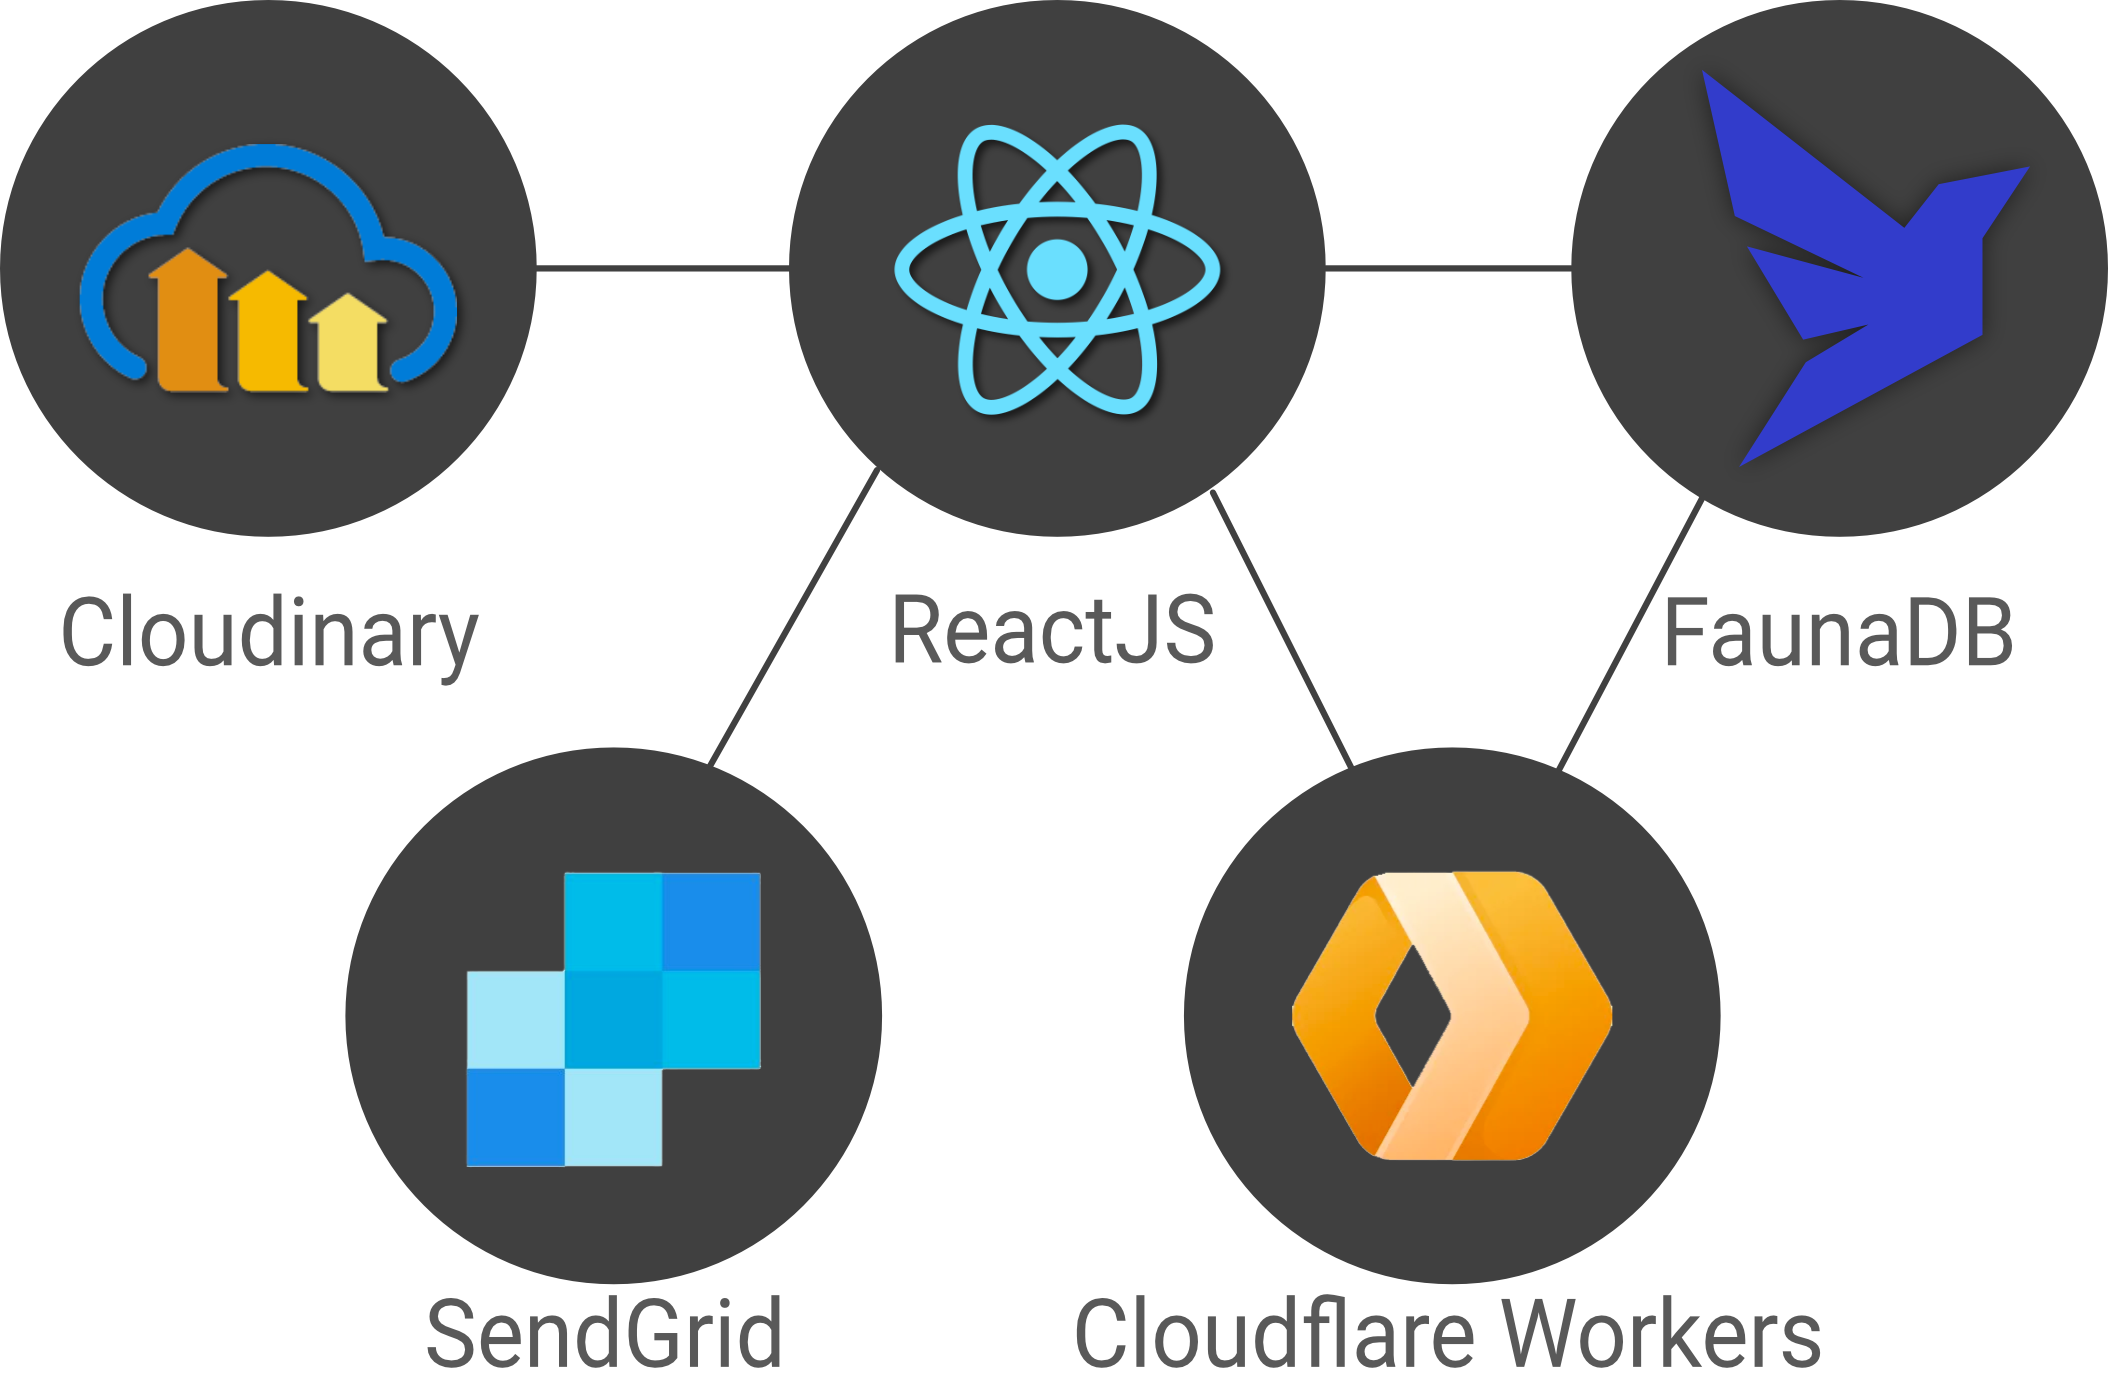
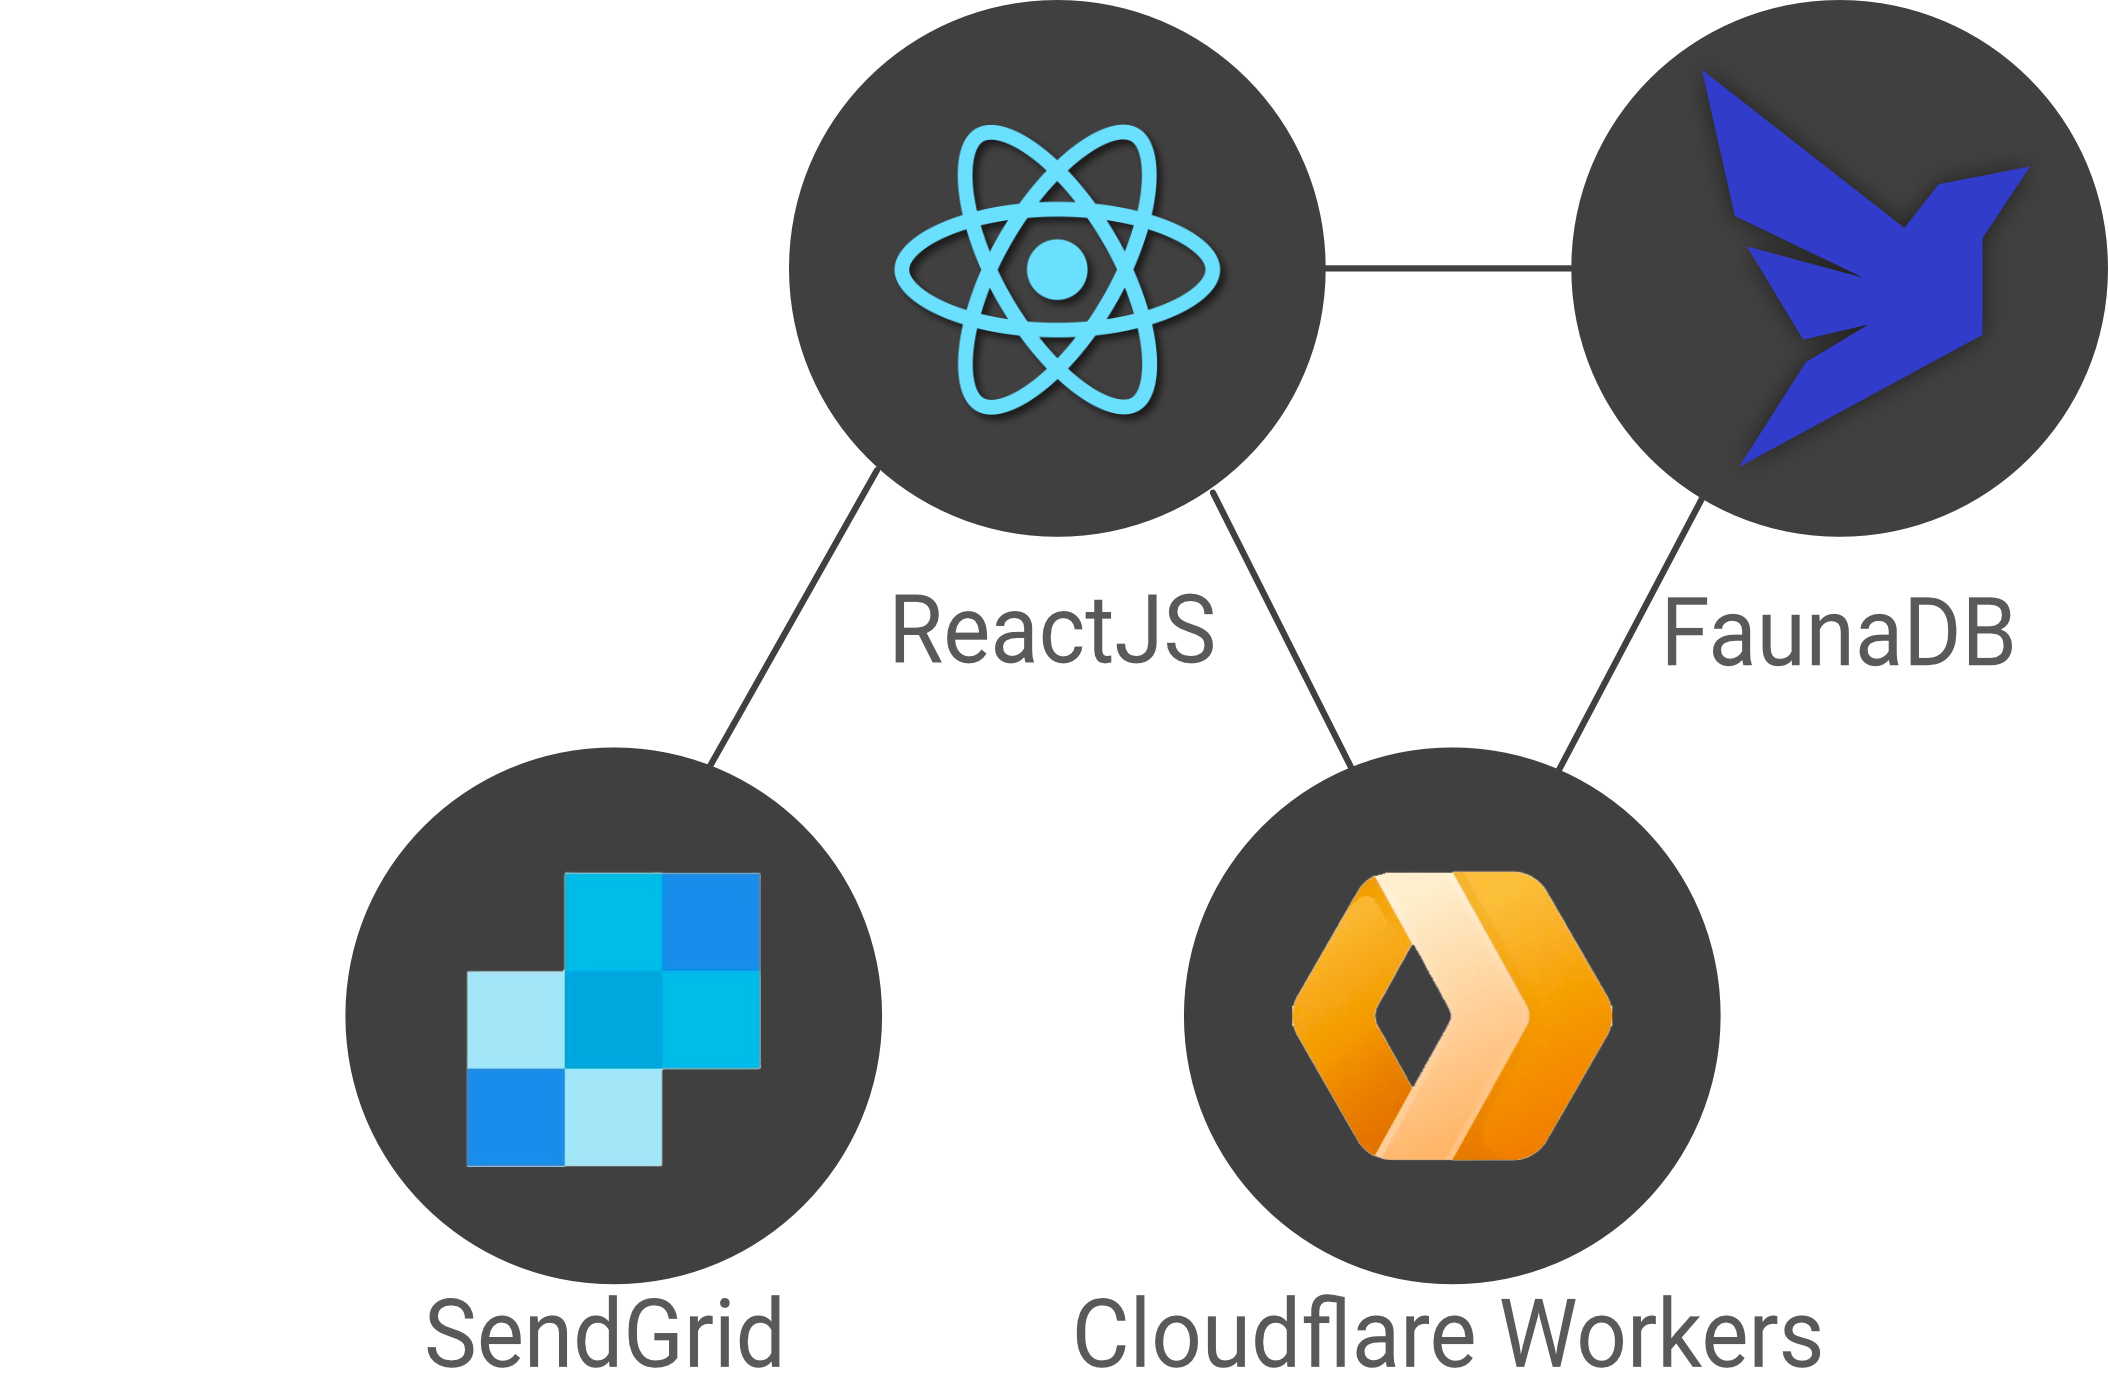
LABS-11: remove Cloudinary from Fwitter readme

Changed region(s): [[0.0, 0.0, 0.37, 0.4033], [0.0308, 0.4343, 0.2467, 0.4964]]

diff --git a/README.md b/README.md
@@ -13,7 +13,7 @@ It uses the Fauna Query Language (FQL) and starts with a frontend-only approach 
 
 A few features are still missing and will be covered in future articles, including streaming, pagination, benchmarks, and a more advanced security model with short-lived tokens, JWT tokens, single sign-on (possibly using a service like Auth0), IP-based rate limiting (with Cloudflare workers), e-mail verification (with a service like SendGrid), and HttpOnly cookies.
 
-<img src="stack2.png?raw=true" width="400">
+<img src="readme/stack2.png?raw=true" width="400">
 
 
 ## Prerequisites
